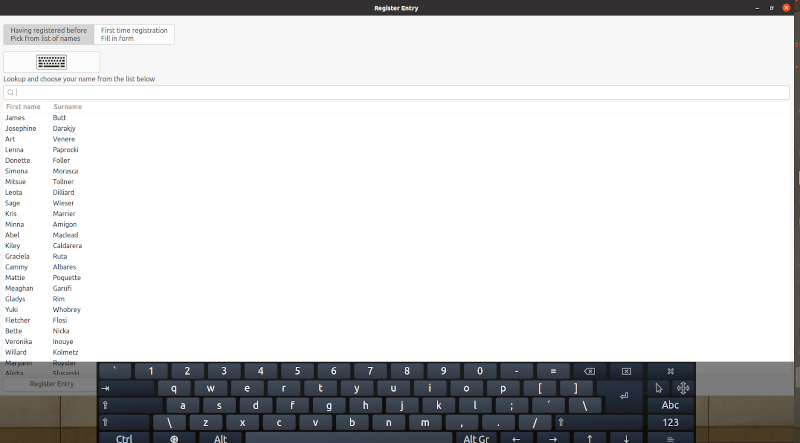
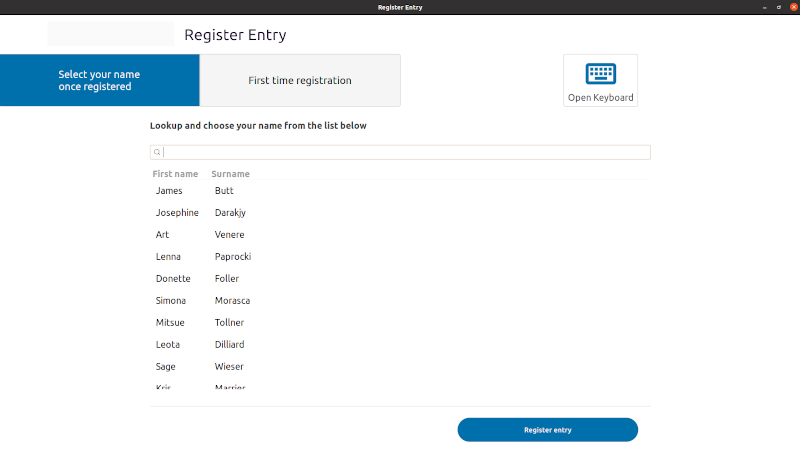
Changes to README to reflect incorporating styling with GtkCssProvider

diff --git a/README.md b/README.md
@@ -35,6 +35,8 @@ python register_entry.py /home/user/register-data
 
 Additional input parameters (in the script is is the number of masks taken) can be easily customized in the custom dialog *ExtraDataDialog*, called from *run_extra_data_dialog*.
 
+A company logo can be displayed in the app's top bar by modifying the file *"logo.png"*. The styling of the app can be changed by modifying the file *"styles.css"* as script is using the *GtkCssProvider* class to change it's appearance.
+
 ## Contributing
 Pull requests are welcome. For major changes, please open an issue first to discuss what you would like to change.
 
